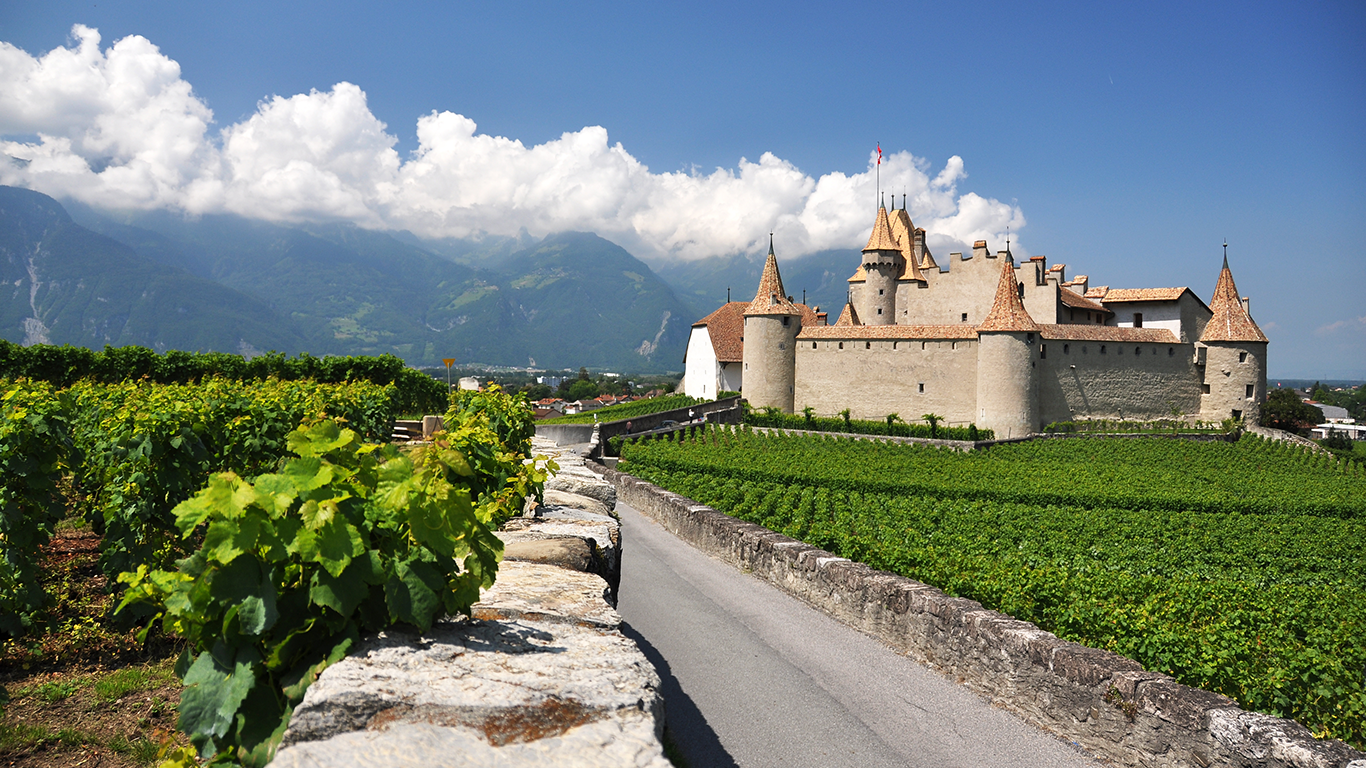
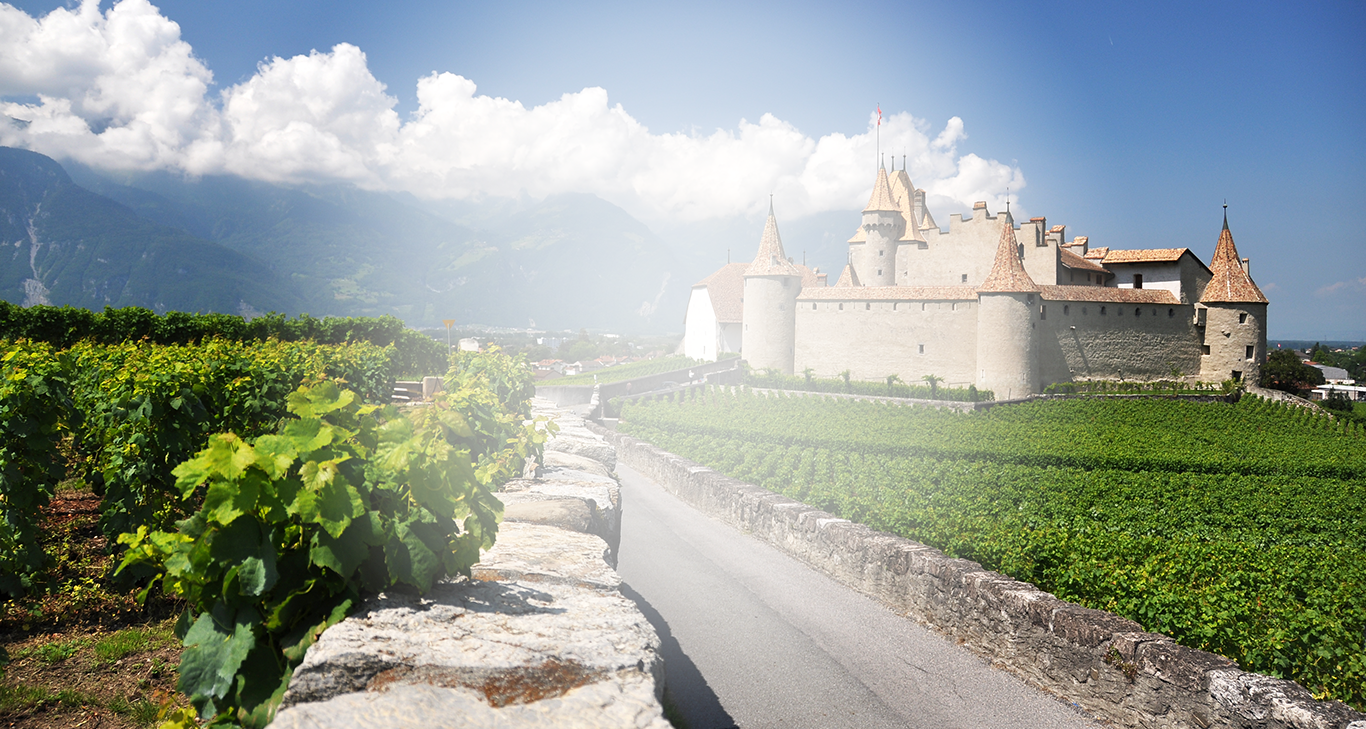
update backgrpunds and set delay to 4c

diff --git a/css/style.css b/css/style.css
@@ -54,7 +54,7 @@
     height: 255;
 }
 .icompazz-form .icompazz-logo-text {
-    margin-bottom: 180px;
+    margin-bottom: 200px;
     color: #303030;
 }
 .icompazz-form .box-form {
@@ -65,6 +65,8 @@
     background: #fff;
     border: none;
     border-radius: 16px;
+    margin: 0 auto;
+    max-width: 370px;
 }
 
 .box-form h4 {
@@ -72,7 +74,7 @@
     color: #303030;
 }
 .box-form input {
-    border: 4px solid #81C028;
+    border: 4px solid #76B824;
     border-radius: 12px;
     font-size: 18px;
     margin: 15px 0;
@@ -80,7 +82,7 @@
     width: 90%;
 }
 .box-form button {
-    background: #81C028;
+    background: #76B824;
     border-radius: 12px;
     color: #fff;
     font-size: 18px;
@@ -108,7 +110,7 @@
         top: 8%;
     }
     .icompazz-form .icompazz-logo-text {
-        margin-bottom: 160px;
+        margin-bottom: 180px;
     }
 }
 @media (max-width: 992px) {
@@ -116,7 +118,7 @@
         top: 7%;
     }
     .icompazz-form .icompazz-logo-text {
-        margin-bottom: 150px;
+        margin-bottom: 160px;
     }
 }
 

diff --git a/index.html b/index.html
@@ -62,7 +62,7 @@
                 </form>
             </div>
         </div>
-        <div class="modal-backdrop"></div>
+        <!--<div class="modal-backdrop"></div>-->
         <script src="js/jquery.js" type="text/javascript"></script>
         <script src="js/app.js" type="text/javascript"></script>
     </body>

diff --git a/js/app.js b/js/app.js
@@ -1,7 +1,6 @@
 jQuery(document).ready(function() {
     var $ = jQuery,
-        progress_inprocess = false,
-        bgInterval = 3000;
+        bgInterval = 4000;
         
         
     window.$ = $;
